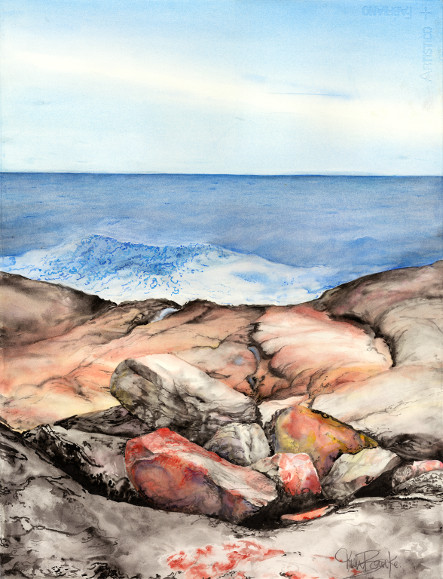
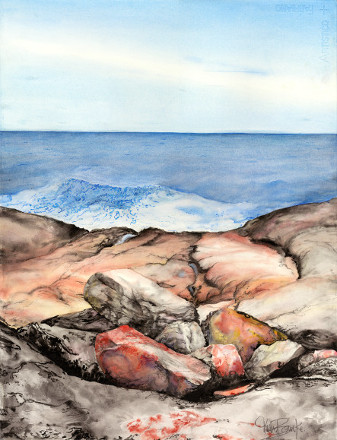
centre panel from top to bottom; image centered within

Changed region(s): [[0.3264, 0.4727, 0.3561, 0.5023], [0.1187, 0.975, 0.1484, 1.0]]

diff --git a/index.html b/index.html
@@ -1,9 +1,9 @@
 <html>
   <head>
     <title>Trish Bourke</title>
-    <link href="css/default.css" rel="stylesheet" type="text/css"/>
     <link href="css/slidejs.css" rel="stylesheet" type="text/css"/>
     <link href="css/colorbox.css" rel="stylesheet" type="text/css"/>
+    <link href="css/default.css" rel="stylesheet" type="text/css"/>
     <script src="http://code.jquery.com/jquery-2.1.0.min.js" type="text/javascript"></script>
     <script src="js/jquery.slides.min.js" type="text/javascript"></script>
     <script src="js/jquery.colorbox-min.js" type="text/javascript"></script>

diff --git a/css/default.css b/css/default.css
@@ -3,12 +3,14 @@ body {
 }
 
 header {
-    padding: 20px 0;
+    padding: 20px 0 5px;
 }
 
 #outer-panel {
     background-image: url('../img/crossword.png');
-    margin: -20px auto 0;
+    position: fixed;
+    left: 50%;
+    margin: -20px 0 0 -240px;
     padding-top: 20px;
     width: 480px;
     height: 100%;
@@ -17,11 +19,9 @@ header {
 #centre-panel {
     margin-left: auto;
     margin-right: auto;
-    width: 443px;
+    width: 333px;
 }
 
 .artwork {
-    height: 450px;
-    width: 333px;
     border: 0;
 }

diff --git a/js/slideshow.js b/js/slideshow.js
@@ -1,7 +1,7 @@
 $(function(){
   $("#slides").slidesjs({
-    height: 600,
-    width: 443,
+    height: 440,
+    width: 333,
     navigation: {
       active: true
     },
